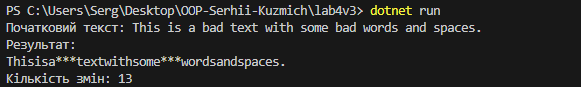
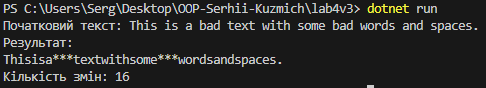
Changed counting by censored

diff --git a/lab4v3/Program.cs b/lab4v3/Program.cs
@@ -31,7 +31,6 @@ interface ITextFilter
 // Базовий клас для фільтрів
 abstract class TextFilterBase : ITextFilter
 {
-    protected int changesCount = 0;
     public int ChangesCount { get; set; }
 
     public abstract string ActionByText(string text);
@@ -64,7 +63,11 @@ class CensorWordsFilter : TextFilterBase
         {
             // Заміна слова на зірочки
             result = result.Replace(word, new string('*', word.Length));
-            ChangesCount += word.Length;
+        }
+        for (int i = 0; i < result.Length; i++)
+        {
+            if(result[i] == '*')
+                ChangesCount++;
         }
         return result;
     }
